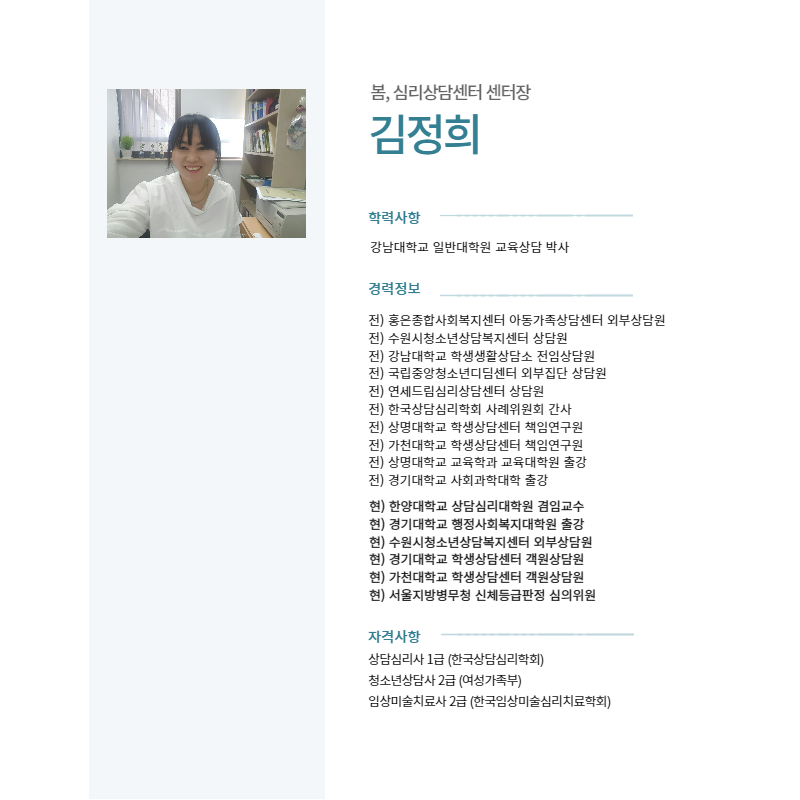
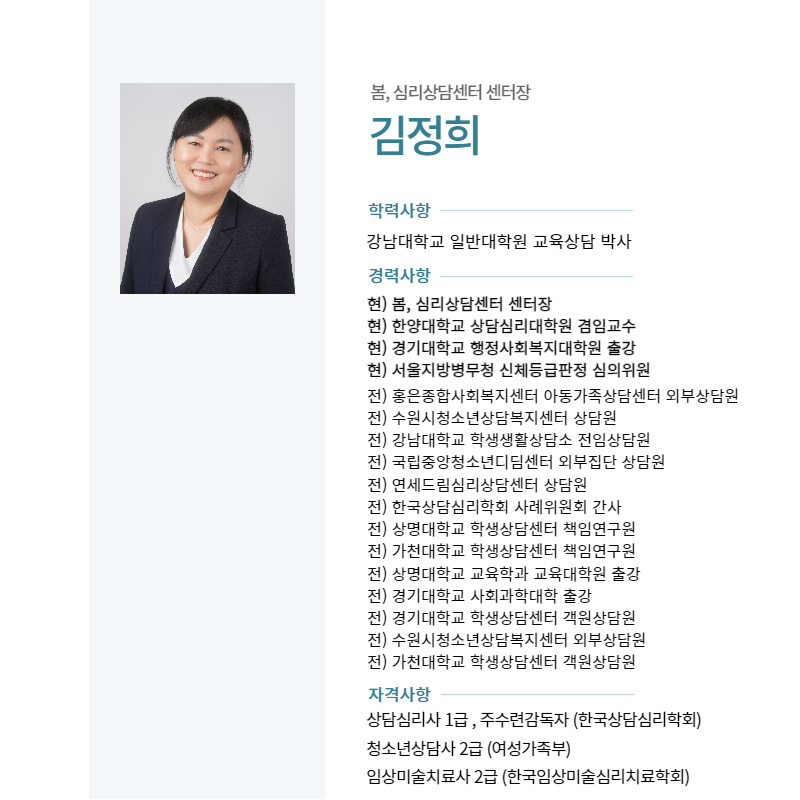
fixed introduce picture & fixed serversideProps

Changed region(s): [[0.4375, 0.25, 0.9375, 1.0], [0.125, 0.0938, 0.4062, 0.375], [0.4688, 0.125, 0.5938, 0.1875]]

diff --git a/pages/home.tsx b/pages/home.tsx
@@ -6,8 +6,6 @@ import { Notice } from '@prisma/client';
 import { NextPage } from 'next';
 import Image from 'next/image';
 import { useRouter } from 'next/router';
-import { useEffect } from 'react';
-import useSWR from 'swr';
 import center1 from '../assets/center1.jpg';
 import center2 from '../assets/center2.jpg';
 import kakao from '../assets/i_kakao.png';
@@ -17,14 +15,9 @@ interface NoticeResponse {
   notices: Notice[];
 }
 
-const Home: NextPage = () => {
+const Home: NextPage<{ data?: NoticeResponse }> = ({ data }) => {
   useMap();
   const router = useRouter();
-  const { data } = useSWR<NoticeResponse>('/api/notice');
-
-  const goNotice = () => {
-    router.push(`/news/notice`);
-  };
 
   const handleNotice = (id: string) => {
     router.push(`/news/notice/${id}`);
@@ -48,7 +41,7 @@ const Home: NextPage = () => {
             <TableContainer className="min-h-[85%]">
               <Table stickyHeader className="">
                 <TableBody className="">
-                  {data?.notices?.map((notice, index) => (
+                  {data?.notices?.map((notice) => (
                     <TableRow
                       onClick={handleNotice.bind(null, notice.id)}
                       key={notice.id}
@@ -56,7 +49,7 @@ const Home: NextPage = () => {
                     >
                       <TableCell className="h-[45px]">{notice.title}</TableCell>
                       <TableCell className="h-[45px] w-36 text-center">
-                        {notice.updatedAt.toString().split('T')[0]?.replaceAll('-', '.')}
+                        {notice?.updatedAt?.toString().split('T')[0]}
                       </TableCell>
                     </TableRow>
                   ))}
@@ -177,31 +170,12 @@ const Home: NextPage = () => {
 
 export default Home;
 
-// 6개 box
-{
-  /* <div className="mt-32">
-<div className="mt-8 flex items-center justify-center text-3xl font-bold">심리 상담</div>
-<div className="mt-8 flex w-full flex-row">
-  <div className="mx-auto h-[250px] w-[250px] rounded-3xl border-[1px] bg-white p-4 hover:cursor-pointer hover:border-[2px] hover:border-[#a9ce8e]">
-    <div className="font-xl p-2 font-semibold text-[#a9ce8e]">개인상담</div>
-  </div>
-  <div className="mr-auto h-[250px] w-[250px] rounded-3xl border-[1px] bg-white p-4 hover:cursor-pointer hover:border-[2px] hover:border-[#a9ce8e]">
-    <div className="font-xl p-2 font-semibold text-[#a9ce8e]">커플·부부상담</div>
-  </div>
-  <div className="mr-auto h-[250px] w-[250px] rounded-3xl border-[1px] bg-white p-4 hover:cursor-pointer hover:border-[2px] hover:border-[#a9ce8e]">
-    <div className="font-xl p-2 font-semibold text-[#a9ce8e]">집단상담</div>
-  </div>
-  <div className="mr-auto h-[250px] w-[250px] rounded-3xl border-[1px] bg-white p-4 hover:cursor-pointer hover:border-[2px] hover:border-[#a9ce8e]">
-    <div className="font-xl p-2 font-semibold text-[#a9ce8e]">심리검사</div>
-  </div>
-</div>
-<div className="my-8 flex w-full flex-row">
-  <div className="mx-auto h-[250px] w-[250px] rounded-3xl border-[1px] bg-white p-4 hover:cursor-pointer hover:border-[2px] hover:border-[#a9ce8e]">
-    <div className="font-xl p-2 font-semibold text-[#a9ce8e]">상담자 교육</div>
-  </div>
-  <div className="mr-auto h-[250px] w-[250px] rounded-3xl border-[1px] bg-white p-4 hover:cursor-pointer hover:border-[2px] hover:border-[#a9ce8e]">
-    <div className="font-xl p-2 font-semibold text-[#a9ce8e]">교육분석</div>
-  </div>
-</div>
-</div> */
-}
+export const getServerSideProps = async ({ req }) => {
+  const protocol = req.headers['x-forwarded-proto'] || 'http';
+  const baseUrl = req ? `${protocol}://${req.headers.host}` : '';
+
+  const data = await fetch(baseUrl + '/api/notice').then((res) => res.json());
+  return {
+    props: { data },
+  };
+};

diff --git a/pages/_document.tsx b/pages/_document.tsx
@@ -11,6 +11,15 @@ class CustomDocument extends Document {
         <Head>
           <meta name="description" content={`${Description}`} />
           <meta name="viewport" content="width=device-width, initial-scale=1.0" />
+          <meta property="og:title" content="봄, 심리상담 센터" />
+          <meta property="og:type" content="website" />
+          <meta property="og:url" content="https://www.bom-counseling.com/" />
+          <meta property="og:locale" content="ko_KR" />
+          <meta
+            property="og:image"
+            content="https://spring-counsel.s3.ap-northeast-2.amazonaws.com/logo-main.jpg"
+          />
+
           <link
             href="https://fonts.googleapis.com/css2?family=Noto+Sans+KR:wght@100;300;400;500;700;900&display=swap"
             rel="stylesheet"

diff --git a/pages/introduce/member.tsx b/pages/introduce/member.tsx
@@ -1,9 +1,9 @@
 import Layout from '@components/Layout';
 import { NextPage } from 'next';
 import Image from 'next/image';
-import member1 from '../../assets/member1.jpg';
+import member1 from '../../assets/member1.png';
 import member3 from '../../assets/member3.jpg';
-import member4 from '../../assets/member4.jpg';
+import member4 from '../../assets/member4.png';
 import member2 from '../../assets/member2.png';
 
 const Member: NextPage = () => {

diff --git a/pages/index.tsx b/pages/index.tsx
@@ -1,10 +1,6 @@
 import type { NextPage } from 'next';
 import Head from 'next/head';
-import Image from 'next/image';
-import styles from '../styles/Home.module.css';
 import Main from './home';
-import Layout from '@components/Layout';
-import Link from 'next/link';
 
 const Home: NextPage = () => {
   return (

diff --git a/pages/introduce/index.tsx b/pages/introduce/index.tsx
@@ -1,7 +1,5 @@
-import Layout from '@components/Layout';
 import { NextPage } from 'next';
-import Image from 'next/image';
-import centerIntroduce from '../../assets/center_introduce.jpg';
+import centerIntroduce from '../../assets/center_introduce.png';
 
 const Introduce: NextPage = () => {
   return (
